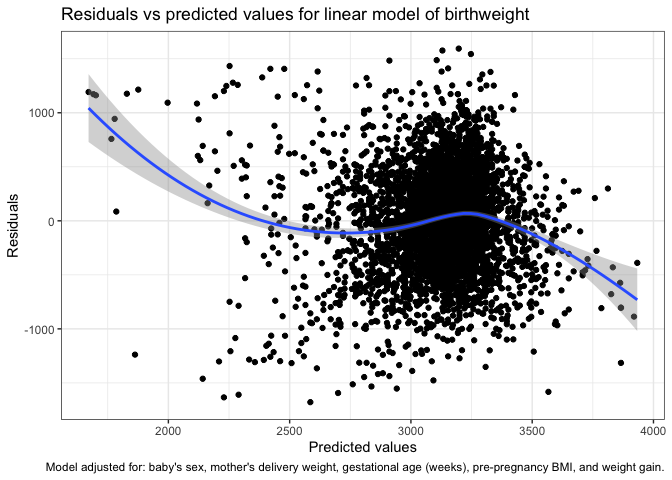
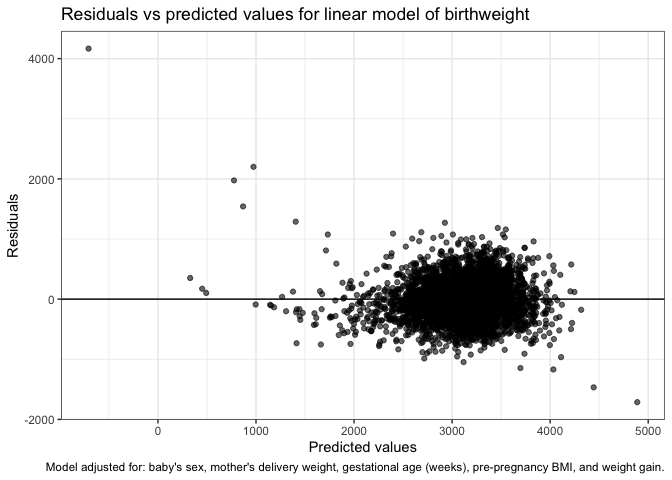
Commit after revisiting problem 1

diff --git a/p8105_hw6_jl4443.md b/p8105_hw6_jl4443.md
@@ -118,60 +118,40 @@ ggplot(data = tidy_data, aes(x = bwt)) +
 The following linear modoel is based on pre-specification of the
 relevant covariates a priori.
 
-``` r
-tidy_data %>% 
-  select_if(is.factor) %>% 
-  map(table, useNA = "always")
-```
-
-    ## $babysex
-    ## 
-    ##   Male Female   <NA> 
-    ##   2230   2112      0 
-    ## 
-    ## $father_race
-    ## 
-    ##        White        Black        Asian Puerto Rican        Other 
-    ##         2123         1911           46          248           14 
-    ##         <NA> 
-    ##            0 
-    ## 
-    ## $mother_race
-    ## 
-    ##        White        Other        Black        Asian Puerto Rican 
-    ##         2123           14         1911           46          248 
-    ##         <NA> 
-    ##            0
-
 Variables that were selected were variables that are hypothesized to be
 related to birthweight. Binary or categorical covariates with small cell
 sizes were not included in the model since they would advsersely affect
 model fit. Examples of such variables that were considered but not
-included due to low cell counts were: `malform` (n=15), `pnumsga` (n=0).
+included due to low cell counts or fewer than two levels were: `malform`
+(n=15), `pnumsga` (n=0).
 
 ``` r
 # propose a linear model for the data
-mdl_bwt <- lm(bwt ~ babysex + gaweeks, data = tidy_data)
-#+  delwt +  + ppbmi + wtgain
+mdl_bwt <- lm(bwt ~ babysex + gaweeks + blength, data = tidy_data)
+# +  +  + momage
+#+  +  +  +  
 broom::tidy(mdl_bwt)
 ```
 
-    ## # A tibble: 3 x 5
-    ##   term          estimate std.error statistic   p.value
-    ##   <chr>            <dbl>     <dbl>     <dbl>     <dbl>
-    ## 1 (Intercept)      511.      88.5       5.78 8.19e-  9
-    ## 2 babysexFemale    -97.4     14.1      -6.91 5.70e- 12
-    ## 3 gaweeks           67.2      2.23     30.1  6.64e-181
+    ## # A tibble: 4 x 5
+    ##   term          estimate std.error statistic  p.value
+    ##   <chr>            <dbl>     <dbl>     <dbl>    <dbl>
+    ## 1 (Intercept)    -4324.      98.8     -43.8  0.      
+    ## 2 babysexFemale    -18.8     10.2      -1.84 6.57e- 2
+    ## 3 gaweeks           27.2      1.72     15.8  6.25e-55
+    ## 4 blength          128.       2.00     63.9  0.
 
 ## Residuals vs predicted values
 
 ``` r
 tidy_data %>% 
-  modelr::add_residuals(mdl_bwt) %>% 
-  modelr::add_predictions(mdl_bwt) %>% 
+  add_residuals(mdl_bwt) %>% 
+  add_predictions(mdl_bwt) %>% 
+  # filter(pred > 0) %>% 
   ggplot(aes(x = pred, y = resid)) + 
-  geom_point() + 
-  geom_smooth(method = "loess", se = TRUE) + 
+  geom_point(alpha = 0.6) + 
+  geom_hline(yintercept = 0) + 
+  # geom_smooth(method = "loess", se = TRUE) + 
   labs(title = "Residuals vs predicted values for linear model of birthweight",
        caption = "Model adjusted for: baby's sex, mother's delivery weight, gestational age (weeks), pre-pregnancy BMI, and weight gain.",
        x = "Predicted values",
@@ -180,20 +160,55 @@ tidy_data %>%
 
 ![](p8105_hw6_jl4443_files/figure-gfm/unnamed-chunk-6-1.png)<!-- -->
 
+There is one patient whose predicted value is less than 0, but this
+patient is a clear outlier in the data. For the majority of the data
+except for the tails, the residuals are dispersed evenly on average
+across predicted values.
+
 ## Model comparisons
 
 ``` r
-alt_model1 <- lm(bwt ~ blength + gaweeks, data = tidy_data)
+# cross-validate to get standard errors for alt_model1
+# generate test-training pairs for cross-validation
+cv <- crossv_mc(tidy_data, 100) %>% 
+  # format the cross validated datasets as tibbles
+  mutate(train = map(train, as_tibble),
+    test = map(test, as_tibble)) %>% 
+  # run each of the models
+  mutate(primary_model  = map(train, ~lm(bwt ~ babysex + gaweeks, data = .x)),
+         alt_model1  = map(train, ~lm(bwt ~ blength + gaweeks, data = .x)),
+         alt_model2  = map(train, ~lm(bwt ~ bhead + blength + babysex + bhead*blength + bhead*babysex + blength*babysex + bhead*blength*babysex, data = .x))) %>% 
+  # pull out root mses
+  mutate(rmse_primary = map2_dbl(primary_model, test, ~rmse(model = .x, data = .y)),
+         rmse_alt1 = map2_dbl(alt_model1, test, ~rmse(model = .x, data = .y)),
+         rmse_alt2 = map2_dbl(alt_model2, test, ~rmse(model = .x, data = .y)))
 
-alt_model2 <- lm(bwt ~ bhead + blength + babysex + bhead*blength + bhead*babysex + blength*babysex + bhead*blength*babysex, data = tidy_data)
+# use ggplot to assess model fit
+cv %>% 
+  select(starts_with("rmse")) %>% 
+  pivot_longer(everything(),
+    names_to = "model", 
+    values_to = "rmse",
+    names_prefix = "rmse_") %>% 
+  mutate(model = case_when(model == "primary" ~ "Primary model",
+                           model == "alt1" ~ "Alternative model 1",
+                           model == "alt2" ~ "Alternative model 2"),
+         model = fct_inorder(model)) %>% 
+  ggplot(aes(x = model, y = rmse)) + 
+  geom_violin() +
+  labs(title = "Birthweight model comparison",
+       x = "Model",
+       y = "Root mean squre error (RMSE)",
+       caption = "Alternative model 1 adjusted for length at birth and gestational age; Alternative model 2 adjusted for head circumference, length, sex, and all interactions.")
 ```
+
+![](p8105_hw6_jl4443_files/figure-gfm/unnamed-chunk-7-1.png)<!-- -->
 
 # Problem 2
 
 ``` r
 # read in raw data
-weather_df <- 
-  rnoaa::meteo_pull_monitors(
+weather_df <- rnoaa::meteo_pull_monitors(
     c("USW00094728"),
     var = c("PRCP", "TMIN", "TMAX"),
     date_min = "2017-01-01",
@@ -238,27 +253,19 @@ bootstrap_models <- bootstrap_samples %>%
               values_from = estimate) %>% 
   rename(beta0 = `(Intercept)`, beta1 = "tmin") %>% 
   mutate(logb0b1 = log(beta0 * beta1)) 
-```
 
-    ## New names:
-    ## * statistic -> statistic...5
-    ## * p.value -> p.value...6
-    ## * statistic -> statistic...10
-    ## * p.value -> p.value...11
-
-``` r
 head(bootstrap_models)
 ```
 
     ## # A tibble: 6 x 5
     ##   .id   r.squared beta0 beta1 logb0b1
     ##   <chr>     <dbl> <dbl> <dbl>   <dbl>
-    ## 1 0001      0.929  6.98  1.04    1.99
-    ## 2 0002      0.901  7.20  1.02    2.00
-    ## 3 0003      0.906  7.41  1.04    2.04
-    ## 4 0004      0.900  7.27  1.04    2.02
-    ## 5 0005      0.896  7.30  1.04    2.03
-    ## 6 0006      0.910  7.15  1.04    2.00
+    ## 1 0001      0.923  6.91  1.06    1.99
+    ## 2 0002      0.927  6.86  1.07    1.99
+    ## 3 0003      0.910  6.57  1.07    1.95
+    ## 4 0004      0.902  7.63  1.02    2.06
+    ## 5 0005      0.906  7.30  1.04    2.03
+    ## 6 0006      0.925  6.83  1.07    1.99
 
 ``` r
 # 3. plot the distribution of the estimates of interest
@@ -277,21 +284,21 @@ dist_logb0b1 <- ggplot(data = bootstrap_models, aes(x = logb0b1)) +
 dist_r2 / dist_logb0b1
 ```
 
-    ## `stat_bin()` using `bins = 30`. Pick better value with `binwidth`.
-
-    ## `stat_bin()` using `bins = 30`. Pick better value with `binwidth`.
-
 ![](p8105_hw6_jl4443_files/figure-gfm/unnamed-chunk-9-1.png)<!-- -->
 
 ``` r
 #4. summarize bootstrapped reuslts
 bootstrap_summary <- bootstrap_models %>% 
-  summarize(r2_lower = round(quantile(r.squared, probs = 0.025), 3),
-         r2_upper = round(quantile(r.squared, probs = 0.975), 3),
-         logb0b1_lower = round(quantile(logb0b1, probs = 0.025), 3),
-         logb0b1_upper = round(quantile(logb0b1, probs = 0.975), 3)) 
+  summarize(r2_mean = round(mean(r.squared), 2),
+         r2_lower = round(quantile(r.squared, probs = 0.025), 2),
+         r2_upper = round(quantile(r.squared, probs = 0.975), 2),
+         logb0b1_mean = round(mean(logb0b1), 2),
+         logb0b1_lower = round(quantile(logb0b1, probs = 0.025), 2),
+         logb0b1_upper = round(quantile(logb0b1, probs = 0.975), 2)) 
 ```
 
-The 95% CI for the r-squared value is (0.893, 0.929).
+R-squared is approximately normally distributed with mean 0.91. The 95%
+CI for the r-squared value is (0.89, 0.93).
 
-The 95% CI for log(b0 \* b1) is (1.967, 2.057).
+Log(beta0*beta1) is also normally distributed with mean 2.01. The 95% CI
+for log(b0 * b1) is (1.96, 2.06).
